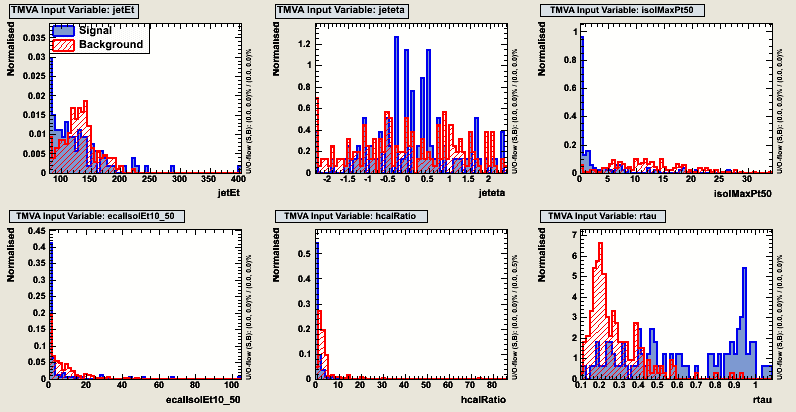
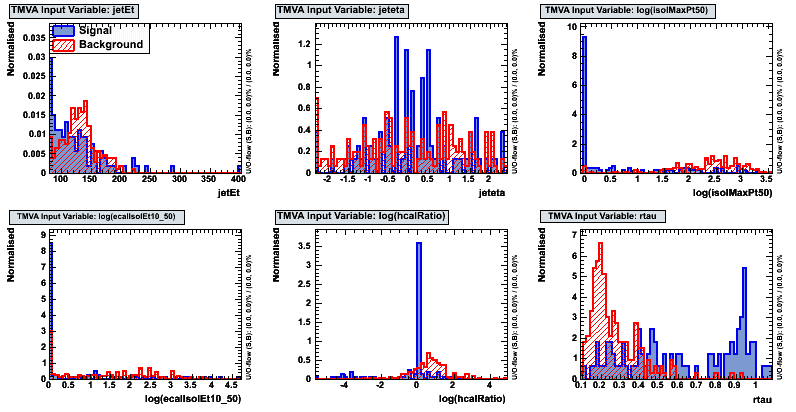
Adding description of variables.

diff --git a/ah09bProceedings.tex b/ah09bProceedings.tex
@@ -95,9 +95,43 @@ at the LHC \cite{heikkinen07lProceedings}.
 
 \section{DATA AND VARIABLES}
 \subsection{Event generation}
-\subsection{Ideal case vs. detector effects}
+%\subsection{Ideal case vs. detector effects}
 % smearing
-\subsection{Discriminating variables}
+%\subsection{Discriminating variables}
+\subsection{Variables used in a standard analysis }
+
+In order to enable comparison between different MVA classifiers we prepared a standard
+analyis using six variabled with fixed preselections cuts.
+
+\begin{verbatim}
+Variables:
+// Default value found with rectangular cuts on CMSSW in parenthesis
+// =================================================================
+// jet energy (ET > 119 GeV)
+jetEt
+// jet eta (|eta| < 2.0)
+jeteta
+// tracker isolation: pT threhold for tracks to be ignored in isolation annulus
+//   (trigger uses cone of 0.50, signal cone=0.04, default: max pT < 0.9 GeV/c)
+log(isolMaxPt50)
+// ECAL isolation: energy threshold for maximum energy in isolation annulus
+//   (optimum isolation annulus 0.10-0.50, max ET < 1.9 GeV)
+log(ecalIsolEt10_50)
+// Rejection of electrons and neutral hadrons (K0's):
+//   variable: ET^(HCAL_0-0.40)/pT^(track)-1, default: -0.98 < hcalRatio < 0.10
+log(hcalRatio)
+// tau helicity correlations (D.P.Roy, Phys.Lett.B459:607-614):
+//   variable: Rtau = P(leading track) / E(jet), default: Rtau < 0.80
+rtau
+\end{verbatim}
+
+Signal and background cuts:
+\begin{verbatim}
+signalTracks == 1
+jetEt > 80
+abs(jeteta) < 2.4
+ldgPt > 20
+\end{verbatim}
 
 
 \subsection{IMPLEMENTATION \label{section:implementation}}

diff --git a/aatos.tex b/aatos.tex
@@ -131,7 +131,7 @@ MLP  H:!V:!Normalise:NeuronType=tanh:NCycles=1000:HiddenLayers=N+5:TestRate=5
 \begin{figure}[h]
 \begin{center}
 \includegraphics[width=1.0\textwidth]{images/ahVariables_c1.png}
-\caption{Variables}
+\caption{Variables used in the analysis. Notice log transformations used for some of the variables.}
 \label{fig:variables_c1}
 \end{center}
 \end{figure}
@@ -145,6 +145,7 @@ MLP  H:!V:!Normalise:NeuronType=tanh:NCycles=1000:HiddenLayers=N+5:TestRate=5
 \end{figure}
 
 \begin{figure}[h]
+
 \begin{center}
 \includegraphics[width=0.5\textwidth]{images/ahCorrelationMatrixB.png}
 \caption{Variable correlation matrix for background}
